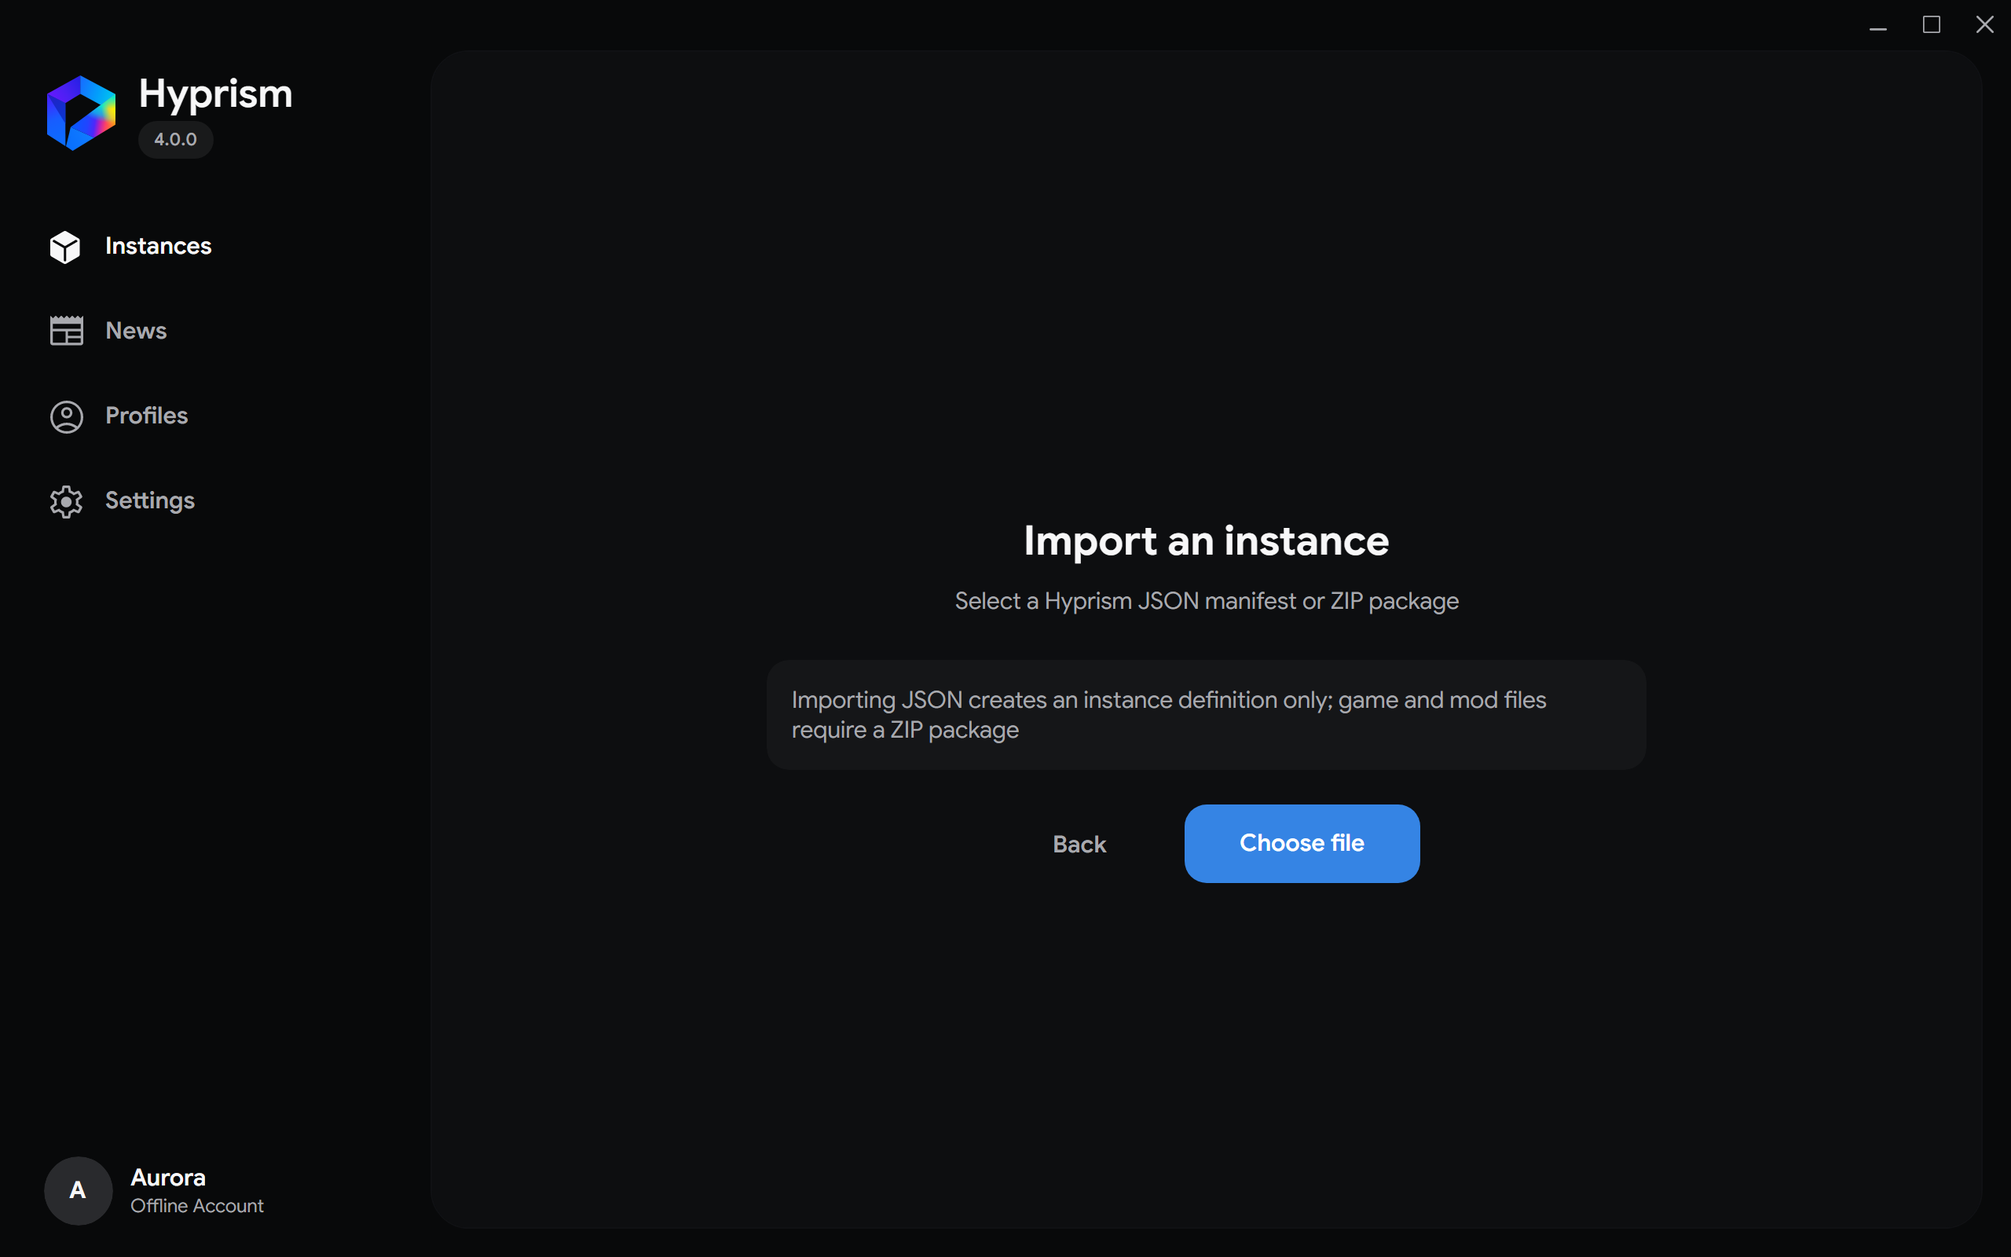
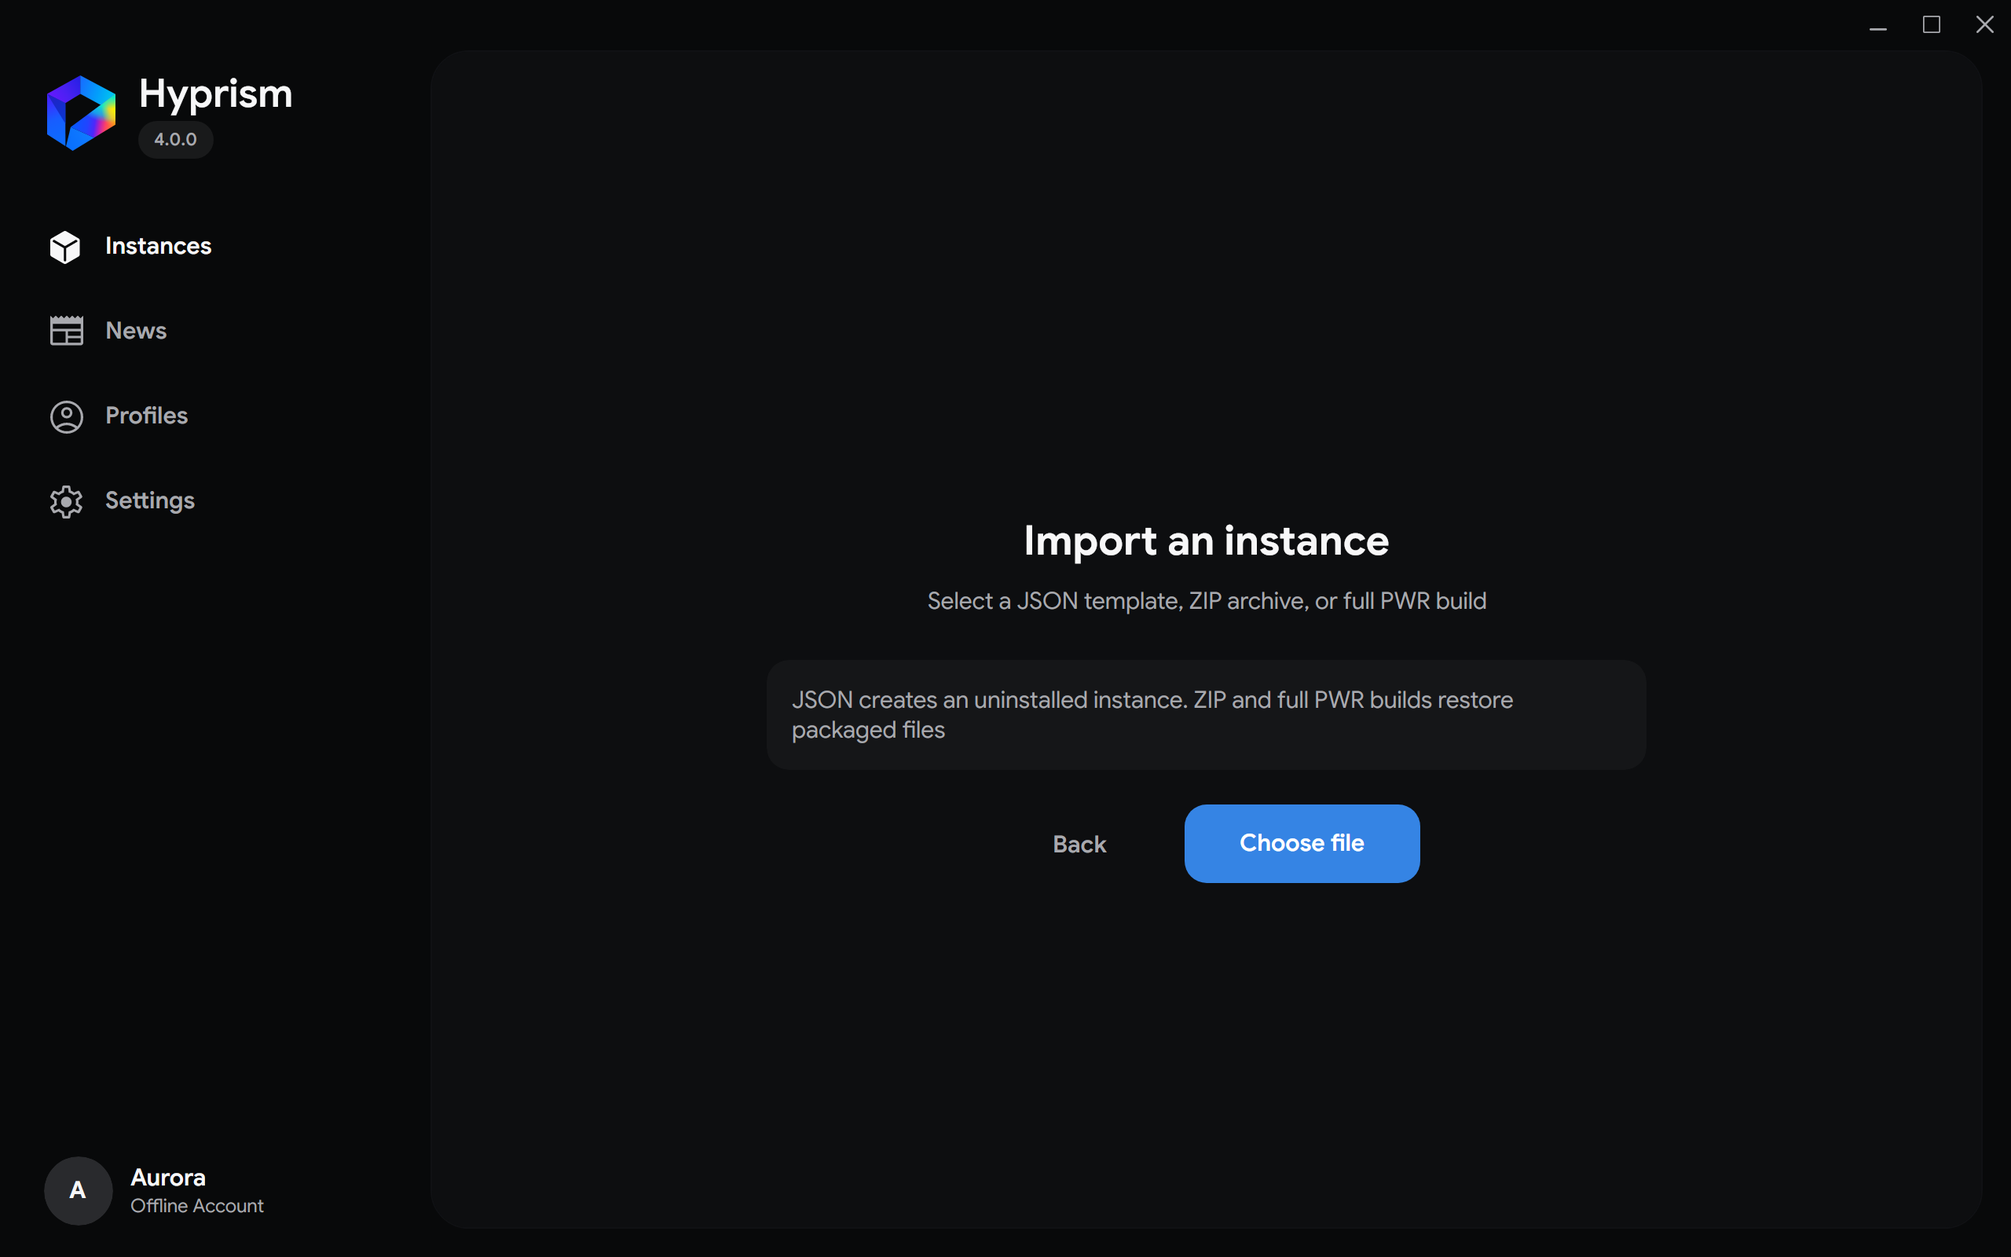
Feat: Return back pwr import

Changed region(s): [[0.375, 0.5312, 0.7812, 0.5938], [0.4688, 0.4688, 0.75, 0.5]]

diff --git a/Tests/Hyprism.Core.Tests/Game/InstancePackageServiceTests.cs b/Tests/Hyprism.Core.Tests/Game/InstancePackageServiceTests.cs
@@ -2,6 +2,9 @@
 // SPDX-License-Identifier: GPL-3.0-only
 
 using System.IO.Compression;
+using System.Runtime.InteropServices;
+using Hyprism.Core.Game.Patching;
+using Moq;
 using Hyprism.Core.Game.Instances;
 using Hyprism.Core.Infrastructure;
 using Hyprism.Core.Models;
@@ -173,6 +176,123 @@ public sealed class InstancePackageServiceTests : IDisposable
 
         Assert.Equal("original", File.ReadAllText(destination));
         Assert.Empty(Directory.EnumerateFiles(_root, "*.tmp-*"));
+    }
+
+    [Theory]
+    [InlineData("0_to_42.pwr")]
+    [InlineData("v42-linux-amd64.pwr")]
+    [InlineData("42.PWR")]
+    public async Task FullPwrCreatesInstalledInstanceWithoutTouchingExistingFiles(string filename)
+    {
+        var pwr = Path.Combine(_root, filename);
+        await File.WriteAllTextAsync(pwr, "original PWR");
+        var butler = new Mock<IButlerClient>();
+        var launcherRoot = Path.Combine(_root, "launcher");
+        var repository = new InstanceRepository(launcherRoot, new JsonConfigStore(launcherRoot), butler.Object);
+        var existing = repository.CreateInstanceMeta("release", 42, "Existing");
+        var existingPath = repository.GetInstancePathById(existing.Id)!;
+        await File.WriteAllTextAsync(Path.Combine(existingPath, "keep.txt"), "existing files");
+        butler.Setup(client => client.ApplyPwrAsync(pwr, It.IsAny<string>(), null, It.IsAny<CancellationToken>()))
+            .Returns((string _, string target, Action<int, string>? _, CancellationToken _) =>
+            {
+                WritePwrClient(target);
+                Directory.CreateDirectory(Path.Combine(target, "UserData", "Mods"));
+                File.WriteAllText(Path.Combine(target, "UserData", "Mods", "example.jar"), "mod");
+                Assert.Single(repository.GetCachedInstances());
+                return Task.CompletedTask;
+            });
+
+        await repository.ImportFromPwrAsync(pwr);
+
+        var imported = Assert.Single(repository.GetCachedInstances(), instance => instance.Id != existing.Id);
+        var path = repository.GetInstancePathById(imported.Id)!;
+        var meta = repository.GetInstanceMeta(path)!;
+        Assert.Equal(42, meta.Version);
+        Assert.Equal(42, meta.InstalledVersion);
+        Assert.Equal("release", meta.Branch);
+        Assert.True(repository.IsClientPresent(path));
+        Assert.Equal(InstanceValidationStatus.Valid, repository.ValidateGameIntegrity(path).Status);
+        Assert.Equal("mod", File.ReadAllText(Path.Combine(path, "UserData", "Mods", "example.jar")));
+        Assert.Equal("existing files", File.ReadAllText(Path.Combine(existingPath, "keep.txt")));
+        Assert.Equal("original PWR", File.ReadAllText(pwr));
+        Assert.Empty(Directory.EnumerateDirectories(Path.Combine(repository.GetInstanceRoot(), ".import")));
+    }
+
+    [Theory]
+    [InlineData(false)]
+    [InlineData(true)]
+    public async Task FailedOrCancelledPwrImportDoesNotRegisterPartialInstance(bool cancel)
+    {
+        var pwr = Path.Combine(_root, "0_to_42.pwr");
+        await File.WriteAllTextAsync(pwr, "PWR");
+        var butler = new Mock<IButlerClient>();
+        var launcherRoot = Path.Combine(_root, "launcher");
+        var repository = new InstanceRepository(launcherRoot, new JsonConfigStore(launcherRoot), butler.Object);
+        using var cancellation = new CancellationTokenSource();
+        butler.Setup(client => client.ApplyPwrAsync(pwr, It.IsAny<string>(), null, cancellation.Token))
+            .Returns((string _, string target, Action<int, string>? _, CancellationToken token) =>
+            {
+                WritePwrClient(target);
+                if (cancel)
+                {
+                    cancellation.Cancel();
+                    token.ThrowIfCancellationRequested();
+                }
+                throw new InvalidDataException("Invalid PWR");
+            });
+
+        if (cancel)
+            await Assert.ThrowsAnyAsync<OperationCanceledException>(() => repository.ImportFromPwrAsync(pwr, cancellation.Token));
+        else
+            await Assert.ThrowsAsync<InvalidDataException>(() => repository.ImportFromPwrAsync(pwr, cancellation.Token));
+
+        Assert.Empty(repository.GetCachedInstances());
+        Assert.Empty(repository.GetInstalledInstances());
+        Assert.Empty(Directory.EnumerateDirectories(Path.Combine(repository.GetInstanceRoot(), ".import")));
+    }
+
+    [Theory]
+    [InlineData("unknown.pwr")]
+    [InlineData("0.pwr")]
+    [InlineData("41_to_42.pwr")]
+    [InlineData("v41~42-linux-amd64.pwr")]
+    public async Task PwrWithoutFullBuildFilenameIsRejectedBeforeApplying(string filename)
+    {
+        var pwr = Path.Combine(_root, filename);
+        await File.WriteAllTextAsync(pwr, "PWR");
+        var butler = new Mock<IButlerClient>(MockBehavior.Strict);
+        var repository = new InstanceRepository(_root, new JsonConfigStore(_root), butler.Object);
+
+        await Assert.ThrowsAsync<InvalidDataException>(() => repository.ImportFromPwrAsync(pwr));
+
+        butler.VerifyNoOtherCalls();
+        Assert.Empty(repository.GetCachedInstances());
+    }
+
+    [Fact]
+    public async Task PwrWithoutPlatformClientIsNotRegistered()
+    {
+        var pwr = Path.Combine(_root, "42.pwr");
+        await File.WriteAllTextAsync(pwr, "PWR");
+        var butler = new Mock<IButlerClient>();
+        butler.Setup(client => client.ApplyPwrAsync(pwr, It.IsAny<string>(), null, It.IsAny<CancellationToken>()))
+            .Returns(Task.CompletedTask);
+        var repository = new InstanceRepository(_root, new JsonConfigStore(_root), butler.Object);
+
+        await Assert.ThrowsAsync<InvalidDataException>(() => repository.ImportFromPwrAsync(pwr));
+
+        Assert.Empty(repository.GetCachedInstances());
+        Assert.Empty(Directory.EnumerateDirectories(Path.Combine(repository.GetInstanceRoot(), ".import")));
+    }
+
+    private static void WritePwrClient(string target)
+    {
+        var relative = RuntimeInformation.IsOSPlatform(OSPlatform.Windows) ? "Client/HytaleClient.exe"
+            : RuntimeInformation.IsOSPlatform(OSPlatform.OSX) ? "Client/Hytale.app/Contents/MacOS/HytaleClient"
+            : "Client/HytaleClient";
+        var client = Path.Combine(target, relative);
+        Directory.CreateDirectory(Path.GetDirectoryName(client)!);
+        File.WriteAllText(client, "client");
     }
 
     private void Write(string relativePath, string content)

diff --git a/Sources/Hyprism.Core/Game/Instances/InstanceRepository.cs b/Sources/Hyprism.Core/Game/Instances/InstanceRepository.cs
@@ -10,6 +10,7 @@ using System.Text.Json;
 using System.Text.Json.Serialization;
 using System.Text.RegularExpressions;
 using Hyprism.Core.Models;
+using Hyprism.Core.Game.Patching;
 
 namespace Hyprism.Core.Game.Instances;
 
@@ -28,6 +29,7 @@ public partial class InstanceRepository : IInstanceRepository
     private readonly string _appDir;
 
     private readonly IConfigStore _configStore;
+    private readonly IButlerClient? _butler;
 
     private static readonly JsonSerializerOptions JsonOptions = new()
     {
@@ -41,10 +43,12 @@ public partial class InstanceRepository : IInstanceRepository
     /// </summary>
     /// <param name="appDir">The application data directory path</param>
     /// <param name="configStore">The configuration service for accessing settings</param>
-    public InstanceRepository(string appDir, IConfigStore configStore)
+    /// <param name="butler">The optional patching client used to import full PWR builds.</param>
+    public InstanceRepository(string appDir, IConfigStore configStore, IButlerClient? butler = null)
     {
         _appDir = appDir;
         _configStore = configStore;
+        _butler = butler;
     }
 
     /// <inheritdoc/>
@@ -1473,7 +1477,57 @@ public partial class InstanceRepository : IInstanceRepository
 
     #endregion
 
-    #region ZIP Import
+    #region Instance import
+
+    /// <inheritdoc/>
+    public async Task ImportFromPwrAsync(string pwrPath, CancellationToken cancellationToken = default)
+    {
+        cancellationToken.ThrowIfCancellationRequested();
+        if (!File.Exists(pwrPath))
+            throw new FileNotFoundException("The PWR build does not exist", pwrPath);
+
+        var filename = Path.GetFileNameWithoutExtension(pwrPath);
+        var patchParts = filename.Split("_to_", 2, StringSplitOptions.None);
+        if (filename.Contains('~') ||
+            (patchParts.Length == 2 && int.TryParse(patchParts[0], out var fromVersion) && fromVersion != 0))
+            throw new InvalidDataException("Select a full PWR build, not a differential update patch");
+
+        var version = TryParseVersionFromPwrFilename(filename);
+        if (version <= 0)
+            throw new InvalidDataException("The PWR filename must contain a game build number, for example 0_to_72.pwr");
+        var butler = _butler ?? throw new InvalidOperationException("Butler is required to import PWR builds");
+        var id = Guid.NewGuid().ToString();
+        var root = GetInstanceRoot();
+        var tempDir = Path.Combine(root, ".import", id);
+        Directory.CreateDirectory(tempDir);
+        try
+        {
+            await butler.ApplyPwrAsync(pwrPath, tempDir, externalCancellationToken: cancellationToken);
+            cancellationToken.ThrowIfCancellationRequested();
+            if (!IsClientPresent(tempDir))
+                throw new InvalidDataException("The PWR build must contain the full game client for this platform");
+
+            var meta = new InstanceMeta
+            {
+                Id = id,
+                Name = $"Imported v{version}",
+                Branch = "release",
+                Version = version,
+                InstalledVersion = version,
+                CreatedAt = DateTime.UtcNow
+            };
+            await File.WriteAllTextAsync(
+                Path.Combine(tempDir, "Meta.json"), JsonSerializer.Serialize(meta, JsonOptions), cancellationToken);
+            cancellationToken.ThrowIfCancellationRequested();
+            Directory.Move(tempDir, Path.Combine(root, id));
+            SyncInstancesWithConfig();
+            Logger.Success("InstanceRepository", $"Imported PWR instance: {id} (version: {version})");
+        }
+        finally
+        {
+            DeleteTemporaryImportDirectory(tempDir);
+        }
+    }
 
     /// <inheritdoc/>
     public async Task ImportFromZipAsync(

diff --git a/Tests/Hyprism.Desktop.Tests/InstancePackageWizardTests.cs b/Tests/Hyprism.Desktop.Tests/InstancePackageWizardTests.cs
@@ -8,6 +8,12 @@ using Avalonia.Styling;
 using Avalonia.Threading;
 using Avalonia.VisualTree;
 using Hyprism.Core.Game.Instances;
+using Hyprism.Core.Application.Ports;
+using Hyprism.Core.Application.Progress;
+using Hyprism.Core.Game;
+using Hyprism.Core.Game.Launch;
+using Hyprism.Desktop.Localization;
+using Hyprism.Desktop.Platform;
 using Hyprism.Core.Game.Versions;
 using Hyprism.Desktop.Controls;
 using Hyprism.Desktop.Screens.Instances;
@@ -19,6 +25,47 @@ namespace Hyprism.Desktop.Tests;
 
 public sealed class InstancePackageWizardTests
 {
+    [AvaloniaTheory]
+    [InlineData("build.pwr")]
+    [InlineData("build.PWR")]
+    [InlineData("build.zip")]
+    public async Task ImportWizardRoutesGameArchivesWithoutDownloadSources(string path)
+    {
+        var instances = new Mock<IInstanceRepository>();
+        instances.Setup(repository => repository.GetCachedInstances()).Returns([]);
+        var picker = new Mock<IFilePicker>();
+        picker.Setup(service => service.BrowseInstancePackageAsync()).ReturnsAsync(path);
+        using var httpClient = new HttpClient();
+        using var viewModel = new InstancesViewModel(
+            instances.Object,
+            Mock.Of<IGameLaunchCoordinator>(),
+            Mock.Of<IGameInstallationWorkflow>(),
+            Mock.Of<IGameProcessTracker>(),
+            Mock.Of<IProgressReporter>(),
+            Mock.Of<IExternalUriLauncher>(),
+            httpClient,
+            new StringLocalizer("en-US"),
+            filePicker: picker.Object);
+        viewModel.OpenEmptyInstanceImportCommand.Execute(null);
+
+        await viewModel.ImportInstancePackageCommand.ExecuteAsync(null);
+
+        Assert.Empty(viewModel.InstanceCreationError);
+        Assert.False(viewModel.IsJsonImportSourceWarningOpen);
+        Assert.False(viewModel.IsInstanceCreatorOpen);
+        Assert.False(viewModel.IsImportingInstancePackage);
+        if (path.EndsWith(".zip", StringComparison.OrdinalIgnoreCase))
+        {
+            instances.Verify(repository => repository.ImportFromZipAsync(path, It.IsAny<CancellationToken>()), Times.Once);
+            instances.Verify(repository => repository.ImportFromPwrAsync(It.IsAny<string>(), It.IsAny<CancellationToken>()), Times.Never);
+        }
+        else
+        {
+            instances.Verify(repository => repository.ImportFromPwrAsync(path, It.IsAny<CancellationToken>()), Times.Once);
+            instances.Verify(repository => repository.ImportFromZipAsync(It.IsAny<string>(), It.IsAny<CancellationToken>()), Times.Never);
+        }
+    }
+
     [AvaloniaFact]
     public async Task ExportWizardUsesSharedRevealAndDefaultsToJson()
     {

diff --git a/Tests/Hyprism.Desktop.Tests/DocumentationScreenshotTests.cs b/Tests/Hyprism.Desktop.Tests/DocumentationScreenshotTests.cs
@@ -252,15 +252,9 @@ public sealed class DocumentationScreenshotTests
         viewModel.Instances.CloseInstanceSectionCommand.Execute(null);
         await WaitFramesAsync(20);
 
-        viewModel.Instances.OpenInstanceCreatorCommand.Execute(null);
+        viewModel.Instances.OpenEmptyInstanceDownloadCommand.Execute(null);
         await WaitFramesAsync(20);
         var creator = instancesView.FindControl<InstanceCreatorView>("InstanceCreatorContentView")!;
-        await AvaloniaTestWait.UntilAsync(
-            () => creator.StepControl(InstanceWizardStage.Choice).IsEffectivelyVisible &&
-                  creator.StepControl(InstanceWizardStage.Choice).Opacity >= 0.99,
-            "instance creation choice to open");
-        creator.FindControl<Button>("InstanceDownloadChoiceButton")!
-            .RaiseEvent(new RoutedEventArgs(Button.ClickEvent));
         await AvaloniaTestWait.UntilAsync(
             () => creator.StepControl(InstanceWizardStage.Download).IsEffectivelyVisible &&
                   creator.StepControl(InstanceWizardStage.Download).Opacity >= 0.99,
@@ -287,10 +281,8 @@ public sealed class DocumentationScreenshotTests
         viewModel.Instances.CloseInstanceCreatorCommand.Execute(null);
         await WaitFramesAsync(16);
 
-        viewModel.Instances.OpenInstanceCreatorCommand.Execute(null);
+        viewModel.Instances.OpenEmptyInstanceImportCommand.Execute(null);
         await WaitFramesAsync(20);
-        creator.FindControl<Button>("InstanceImportChoiceButton")!
-            .RaiseEvent(new RoutedEventArgs(Button.ClickEvent));
         await AvaloniaTestWait.UntilAsync(
             () => creator.StepControl(InstanceWizardStage.Import).IsEffectivelyVisible &&
                   creator.StepControl(InstanceWizardStage.Import).Opacity >= 0.99,

diff --git a/Sources/Hyprism.Core/Game/Instances/IInstanceRepository.cs b/Sources/Hyprism.Core/Game/Instances/IInstanceRepository.cs
@@ -228,4 +228,13 @@ public interface IInstanceRepository
     /// <exception cref="FileNotFoundException">Thrown when the archive does not exist</exception>
     /// <exception cref="InvalidDataException">Thrown when the archive does not contain a valid game instance</exception>
     Task ImportFromZipAsync(string zipPath, CancellationToken cancellationToken = default);
+
+    /// <summary>Applies a full PWR build with Butler and registers it as a new installed release instance.</summary>
+    /// <param name="pwrPath">The PWR file whose name contains an explicit game build number.</param>
+    /// <param name="cancellationToken">Token used to cancel extraction and metadata I/O.</param>
+    /// <returns>A task that completes after the instance is imported.</returns>
+    /// <exception cref="FileNotFoundException">Thrown when the PWR file does not exist.</exception>
+    /// <exception cref="InvalidDataException">Thrown when the build number or platform game client is missing.</exception>
+    /// <exception cref="InvalidOperationException">Thrown when no Butler client is configured.</exception>
+    Task ImportFromPwrAsync(string pwrPath, CancellationToken cancellationToken = default);
 }

diff --git a/Sources/Hyprism.Desktop/Screens/Instances/InstancesViewModel.Packages.cs b/Sources/Hyprism.Desktop/Screens/Instances/InstancesViewModel.Packages.cs
@@ -286,6 +286,10 @@ public sealed partial class InstancesViewModel
             {
                 await _instances.ImportFromZipAsync(path, cancellation.Token);
             }
+            else if (Path.GetExtension(path).Equals(".pwr", StringComparison.OrdinalIgnoreCase))
+            {
+                await _instances.ImportFromPwrAsync(path, cancellation.Token);
+            }
             else if (Path.GetExtension(path).Equals(".json", StringComparison.OrdinalIgnoreCase))
             {
                 var package = await InstancePackageService.ReadJsonAsync(path, cancellation.Token);

diff --git a/Sources/Hyprism.Core/Application/Composition/Bootstrapper.cs b/Sources/Hyprism.Core/Application/Composition/Bootstrapper.cs
@@ -98,7 +98,8 @@ public static partial class Bootstrapper
             services.AddSingleton(sp =>
                 new InstanceRepository(
                     sp.GetRequiredService<AppPathConfiguration>().AppDir,
-                    sp.GetRequiredService<IConfigStore>()));
+                    sp.GetRequiredService<IConfigStore>(),
+                    sp.GetRequiredService<IButlerClient>()));
             services.AddSingleton<IInstanceRepository>(sp => sp.GetRequiredService<InstanceRepository>());
 
             services.AddSingleton(sp =>

diff --git a/Sources/Hyprism.Desktop/Platform/IFilePicker.cs b/Sources/Hyprism.Desktop/Platform/IFilePicker.cs
@@ -43,7 +43,7 @@ public interface IFilePicker
     /// <returns>The selected local path, or <see langword="null"/> when cancelled</returns>
     Task<string?> BrowseInstanceArchiveAsync();
 
-    /// <summary>Selects a Hyprism JSON manifest or ZIP package for instance import</summary>
+    /// <summary>Selects a Hyprism JSON manifest, ZIP package, or full PWR build for instance import.</summary>
     Task<string?> BrowseInstancePackageAsync();
 
     /// <summary>Selects a PNG or JPEG image for an instance icon</summary>

diff --git a/Sources/Hyprism.Desktop/Platform/FilePicker.cs b/Sources/Hyprism.Desktop/Platform/FilePicker.cs
@@ -33,7 +33,7 @@ public sealed class FilePicker(Func<TopLevel?> topLevelProvider) : IFilePicker
 
     private static readonly FilePickerFileType InstancePackageFileType = new("Hyprism instance package")
     {
-        Patterns = ["*.json", "*.zip"]
+        Patterns = ["*.json", "*.zip", "*.pwr"]
     };
 
     private static readonly FilePickerFileType ImageFileType = new("Image")
